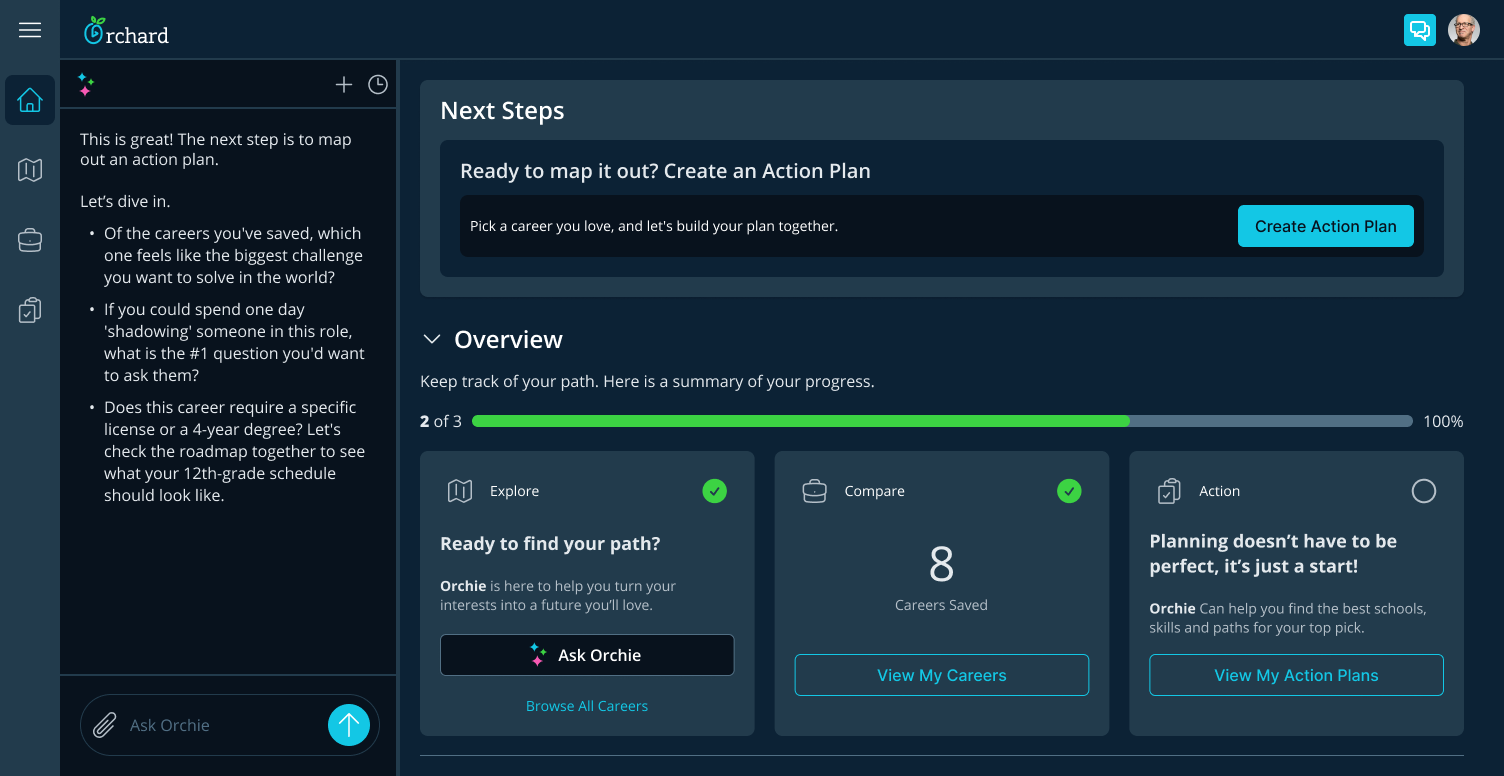
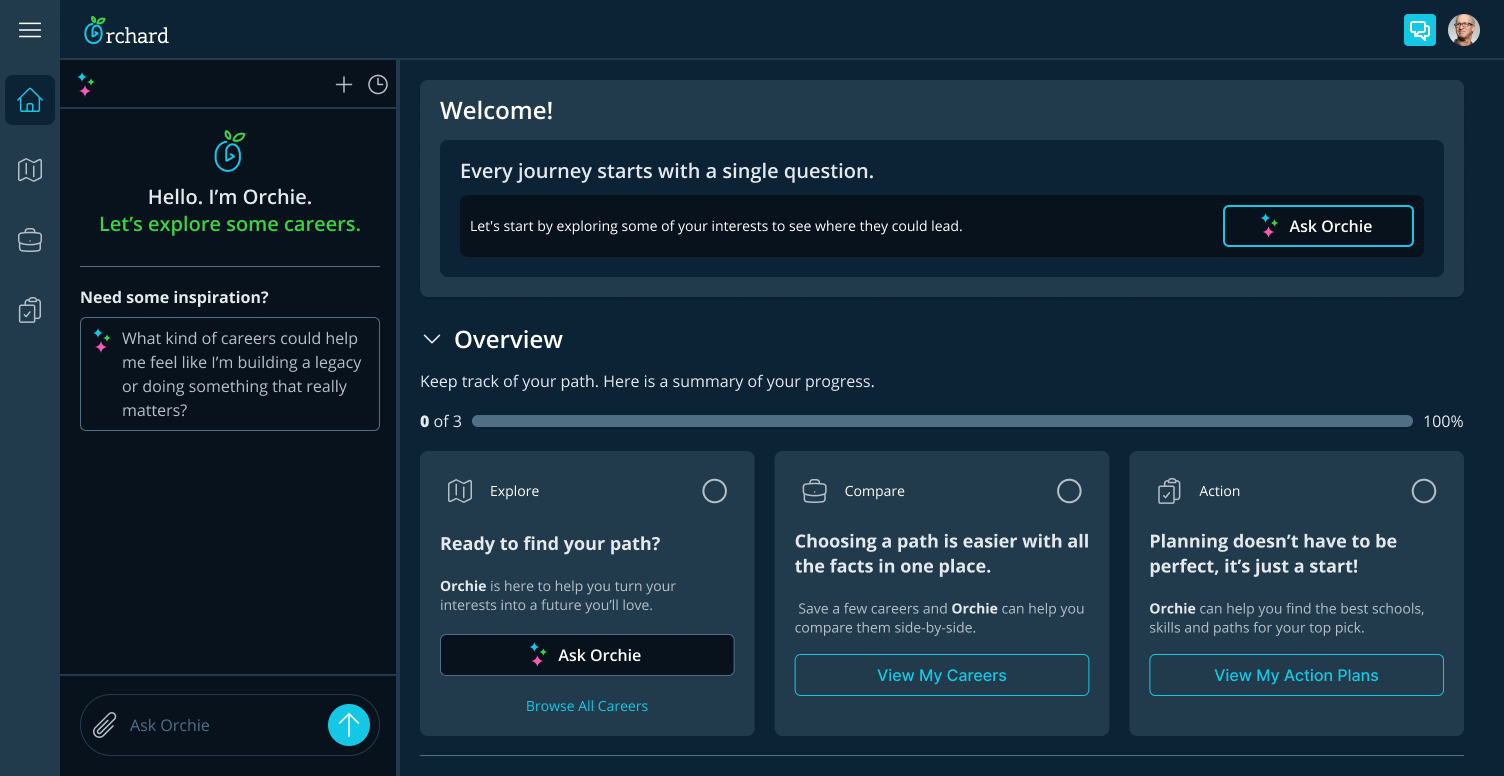
case study glow up

diff --git a/assets/css/style.css b/assets/css/style.css
@@ -977,6 +977,49 @@ a.project-card {
   border-left: 4px solid rgba(148, 163, 184, 0.35);
 }
 
+/* Orchard case study: static gradient border (orchard blue ↔ green) + soft glow (no motion) */
+.orchard-problem-glow {
+  position: relative;
+  margin-top: 0.5rem;
+  margin-bottom: 0.5rem;
+  padding: 2px;
+  border-radius: 14px;
+  background: linear-gradient(
+    135deg,
+    rgba(19, 199, 229, 0.7) 0%,
+    rgba(60, 211, 67, 0.7) 45%,
+    rgba(19, 199, 229, 0.7) 100%
+  );
+  box-shadow:
+    0 0 18px rgba(19, 199, 229, 0.18),
+    0 0 32px rgba(60, 211, 67, 0.18);
+}
+
+.orchard-problem-glow__inner {
+  position: relative;
+  z-index: 1;
+  padding: 1.35rem 1.6rem 1.5rem;
+  border-radius: 12px;
+  background: rgba(8, 18, 29, 0.96);
+}
+
+.major-section--problem .orchard-problem-glow__inner h2 {
+  margin-top: 0;
+  font-size: 1.35rem;
+  font-weight: 600;
+  line-height: 1.2;
+  margin-bottom: 0.85rem;
+  text-align: left;
+}
+
+/* Orchard: Problem + Initial Thesis in one band — no rule between subsections */
+.major-section--problem .subsection:nth-child(2) {
+  border-top: none;
+  padding-top: 1.25rem;
+  margin-top: 0;
+  margin-bottom: 1.5rem;
+}
+
 .major-section--thesis {
   background: rgba(34, 59, 76, 0.35);
   border-left: 4px solid rgba(148, 163, 184, 0.2);
@@ -1017,6 +1060,10 @@ a.project-card {
 .major-section--impact {
   background: rgba(34, 59, 76, 0.4);
   border-left: 4px solid rgba(56, 189, 248, 0.25);
+}
+
+.major-section--impact .subsection > h3 {
+  text-align: center;
 }
 
 /* Alternate section style (e.g. Design System in Action) – blue-gray, distinct from pivot/north-star */
@@ -1115,6 +1162,19 @@ a.project-card {
 }
 .dnd-logic-callout li:last-child {
   margin-bottom: 0;
+}
+
+/* Orchard case study: 1px bordered body paragraphs (same treatment as D&D .dnd-logic-callout) */
+.case-study--orchard .major-section .subsection > p {
+  border: 1px solid rgba(148, 163, 184, 0.2);
+  border-radius: var(--radius-lg);
+  padding: 1.25rem 1.5rem;
+  margin: 1.25rem 0 1.5rem;
+  background: rgba(8, 25, 48, 0.15);
+}
+
+.case-study--orchard .major-section .subsection > p:first-of-type {
+  margin-top: 0;
 }
 
 .case-study-section-inner p.case-study-wordmark,
@@ -1267,6 +1327,19 @@ a.project-card {
 
 .case-study-callout strong {
   color: var(--foreground);
+}
+
+.case-study-callout--thesis-intro > h2:first-child {
+  margin-top: 0;
+  margin-bottom: 0.85rem;
+  font-size: 1.35rem;
+  font-weight: 600;
+  text-align: left;
+  color: var(--foreground);
+}
+
+.case-study-callout--thesis-intro > p:last-of-type {
+  margin-bottom: 0;
 }
 
 /* Role callout: more prominent, left accent */

diff --git a/_layouts/case-study.html b/_layouts/case-study.html
@@ -2,7 +2,7 @@
 layout: default
 ---
 
-<article class="case-study">
+<article class="case-study{% if page.title contains 'Orchard' %} case-study--orchard{% endif %}">
   <section class="case-study-body">
     {{ content }}
   </section>

diff --git a/_case_studies/orchard.md b/_case_studies/orchard.md
@@ -6,7 +6,8 @@ layout: case-study
 <nav class="case-study-nav" aria-label="On this page">
   <ul>
     <li><a href="#the-problem">The Problem</a></li>
-    <li><a href="#the-initial-thesis">The Initial Thesis</a></li>
+    <li><a href="#initial-thesis-content-first">Initial Thesis: The Content-First Strategy</a></li>
+    <li><a href="#getting-ready-for-testing">Getting Ready for Testing</a></li>
     <li><a href="#the-pivot">A Shift in Focus</a></li>
     <li><a href="#unexpected-turbulence">Unexpected Turbulence</a></li>
     <li><a href="#the-north-star">The North Star</a></li>
@@ -30,24 +31,30 @@ layout: case-study
 <section id="the-problem" class="major-section major-section--problem">
   <div class="major-section-inner">
     <div class="subsection">
-      <h2>The Problem: The Mentorship Gap</h2>
-      <p>High schoolers are expected to pick a life path before they're even allowed to rent a car. Meanwhile, career counselors are so outnumbered that most students only get a five-minute check-in once a year. The result? Kids default to "safe" or "generic" majors like Business or Marketing because they simply don't have a guiding voice to show them anything else.</p>
+      <div class="orchard-problem-glow">
+        <div class="orchard-problem-glow__inner">
+          <h2>The Problem: The Mentorship Gap</h2>
+          <p>High schoolers are expected to pick a life path before they're even allowed to rent a car. Meanwhile, career counselors are so outnumbered that most students only get a five-minute check-in once a year. The result? Kids default to "safe" or "generic" majors like Business or Marketing because they simply don't have a guiding voice to show them anything else.</p>
+        </div>
+      </div>
+    </div>
+    <div class="subsection" id="initial-thesis-content-first">
+      <div class="case-study-callout case-study-callout--thesis-intro">
+        <h2>Initial Thesis: The Content-First Strategy</h2>
+        <p>Students just need a better library of high-quality content and some gamification to encourage exploring. Counselors needed a way to track progress, view trends and assign homework.</p>
+      </div>
     </div>
   </div>
 </section>
 
 <section id="the-initial-thesis" class="major-section major-section--thesis">
   <div class="major-section-inner">
-    <div class="subsection">
-      <h2>The Initial Thesis: "If we build it, they will search"</h2>
-      <p>We started with a classic assumption: students just needed a better database.</p>
+    <div class="subsection" id="getting-ready-for-testing">
+      <h2>Getting Ready for Testing</h2>
+      <p>To get ready to test our hypothesis we reached out to everyone we knew and started filming our own high-quality videos, created a gamifying experience and added quizzes to prove students were watching the videos.</p>
       <figure class="case-study-screenshot">
         <img src="{{ '/assets/img/orchard-screens/student-explore-careers.png' | relative_url }}" alt="Student exploring careers">
       </figure>
-    </div>
-    <div class="subsection">
-      <h2>For Students</h2>
-      <p>A video-first searchable library with gamified quizzes to "prove" they were learning.</p>
       <figure class="case-study-screenshot">
         <img src="{{ '/assets/img/orchard-screens/student-career-page-view.png' | relative_url }}" alt="Student career page view">
       </figure>
@@ -57,7 +64,7 @@ layout: case-study
     </div>
     <div class="subsection">
       <h2>For Counselors</h2>
-      <p>A complex dashboard so they could track usage and assign "homework" to students.</p>
+      <p>We designed a way to track progress and even assign "career homework" to their students.</p>
       <figure class="case-study-screenshot">
         <img src="{{ '/assets/img/orchard-screens/admin-dashboard.png' | relative_url }}" alt="Admin dashboard">
       </figure>
@@ -68,8 +75,8 @@ layout: case-study
       <div class="case-study-callout">
         <ul>
           <li><strong>The "Search Bar" Bias:</strong> Students didn't "explore" because they didn't know what to ask. They defaulted to the same three careers they'd seen on TV, leaving the rest of our database untouched.</li>
-          <li><strong>Dashboard Fatigue:</strong> Counselors were already drowning in administrative tools. The last thing they wanted was another system to log into; they needed a way to make their rare 1-on-1 time more effective.</li>
           <li><strong>The Quiz Friction:</strong> We thought gamified quizzes would prove learning, but students saw them as "just more schoolwork" and disengaged immediately.</li>
+          <li><strong>Dashboard Fatigue:</strong> Counselors were already drowning in administrative tools. The last thing they wanted was another system to log into; they needed a way to make their rare 1-on-1 time more effective.</li>
         </ul>
       </div>
     </div>
@@ -95,7 +102,7 @@ layout: case-study
     </div>
     <div class="subsection">
       <h2>The Feed Model</h2>
-      <p>We replaced the traditional database UI with a mobile-first, scrollable feed of short-form video clips.</p>
+      <p>We replaced the traditional search based layout with a mobile-first, scrollable feed of short-form video clips.</p>
       <figure class="case-study-screenshot case-study-screenshot--phone">
         <img src="{{ '/assets/img/orchard-screens/careers-mobile-homepage.png' | relative_url }}" alt="Careers mobile homepage">
       </figure>
@@ -115,19 +122,14 @@ layout: case-study
       </figure>
     </div>
     <div class="subsection">
-      <h2>Empowering the Counselor</h2>
-      <p>We accepted that a dashboard was just more "admin work" for people who didn't have time for it.</p>
+      <h2>For Counselors: We Switched Our Intent</h2>
+      <p>We realized a dashboard was just another system for counselors to manage, so we shifted our intent from managing to a conversation. By helping students build a personalized career plan before their five-minute check-in, we turned a forgettable touchpoint into a high-value conversation.</p>
     </div>
     <div class="subsection">
-      <h2>The Portfolio Approach</h2>
-      <p>Instead of a tracker, we designed a simple "Favorite Careers" profile for the student.</p>
-      <figure class="case-study-screenshot">
-        <img src="{{ '/assets/img/orchard-screens/career-favorite.png' | relative_url }}" alt="Career favorite">
-      </figure>
-    </div>
-    <div class="subsection">
-      <h2>Conversation Starters</h2>
-      <p>The goal shifted from "tracking students" to "equipping students." We wanted them to walk into that one yearly meeting with a list of five careers they actually cared about, giving the counselor a massive head start.</p>
+      <div class="case-study-callout case-study-callout--thesis-intro">
+        <h2>Testing: Round Two</h2>
+        <p>With a solid proof-of-concept in hand, it was time to push the product further. We integrated analytics and launched to a list of ~20,000 educators. Even though they weren't our primary demographic, watching them interact unassisted provided the kind of &ldquo;raw&rdquo; data you just can't get in a lab. For the next two weeks, our morning ritual was analyzing session recordings, letting us see exactly where users thrived and where they stumbled.</p>
+      </div>
     </div>
   </div>
 </section>
@@ -151,8 +153,8 @@ layout: case-study
       </div>
     </div>
     <div class="subsection">
-      <h2>Embracing the Magic</h2>
-      <p>We decided to dive in, but with a strict design rule: The AI has to serve the human story, not the other way around.</p>
+      <h2>Aligning the Tech to the Mission</h2>
+      <p>We realized LLM technology was the perfect way to make our vision of a 24/7 career counselor a reality. Our approach was simple: the AI exists to guide students and answer their questions as they build their own post-high school career plans. We made a strategic decision that the technology should never automatically assign a 'perfect career' based on an assessment. Instead, it serves as a supportive partner, keeping the student in the driver's seat of their own future.</p>
     </div>
   </div>
 </section>
@@ -161,21 +163,13 @@ layout: case-study
   <div class="major-section-inner">
     <div class="subsection">
       <h2>The North Star: A Living Mentor in Every Pocket</h2>
-      <p>This phase is where 20 years of experience met the most modern tools available to turn a vision into a "source of truth" that actually works. We moved from a discovery platform to a Mentorship Engine, focusing on a four-stage journey that guides a student from initial curiosity to a concrete, trackable future.</p>
-      <p>By integrating <strong>contextual mentorship</strong>, we used AI to bridge the gap between "I'm interested in this video" and "Here is exactly how I achieve this goal." This transformed the experience from a passive library into a proactive guide, ensuring that every piece of content served as a stepping stone toward a real-world outcome.</p>
-      <figure class="case-study-screenshot">
-        <img src="{{ '/assets/img/orchard-screens/orchard-career-exploration.png' | relative_url }}" alt="Orchard career exploration">
-      </figure>
+      <p>We moved beyond a simple discovery platform to create a truly guided experience. Our goal was to turn our passive video library into a proactive mentor that walks with students from their first spark of curiosity all the way to a concrete and trackable future. By adding contextual mentorship, we used AI to bridge the gap between exploring careers and understanding exactly how to achieve a goal. This transforms every piece of content into a deliberate stepping stone, turning a library of information into an active roadmap toward a real-world career.</p>
     </div>
     <div class="subsection">
-      <h2>Enter "Orchie"</h2>
-      <p>We designed Orchie to be the "Digital Counselor" in the room: a conversational AI that doesn't just regurgitate data, but asks the right questions.</p>
-    </div>
-    <div class="subsection">
-      <h2>Conversational Context</h2>
-      <p>Instead of a search bar, Orchie helps students articulate their interests, moving them past generic "Business" majors into specific, high-growth paths.</p>
+      <h2>Enter "Orchie": The Digital Counselor</h2>
+      <p>We designed Orchie to serve as a digital counselor that moves beyond the limitations of a standard search bar. Instead of just regurgitating data, Orchie uses conversational context to help students articulate their interests and move past generic labels like 'Business' into specific, meaningful career trajectories. This shift ensures the AI isn't just an information retrieval tool, but a proactive partner that asks the right questions to help a student refine their own vision and discover a path that truly resonates with them.</p>
       <figure class="case-study-screenshot">
-        <img src="{{ '/assets/img/orchard-screens/orchard-orchie.png' | relative_url }}" alt="Orchard Orchie">
+        <img src="{{ '/assets/img/orchard-screens/orchard-dashboard.png' | relative_url }}" alt="Orchard dashboard">
       </figure>
     </div>
     <div class="subsection">
